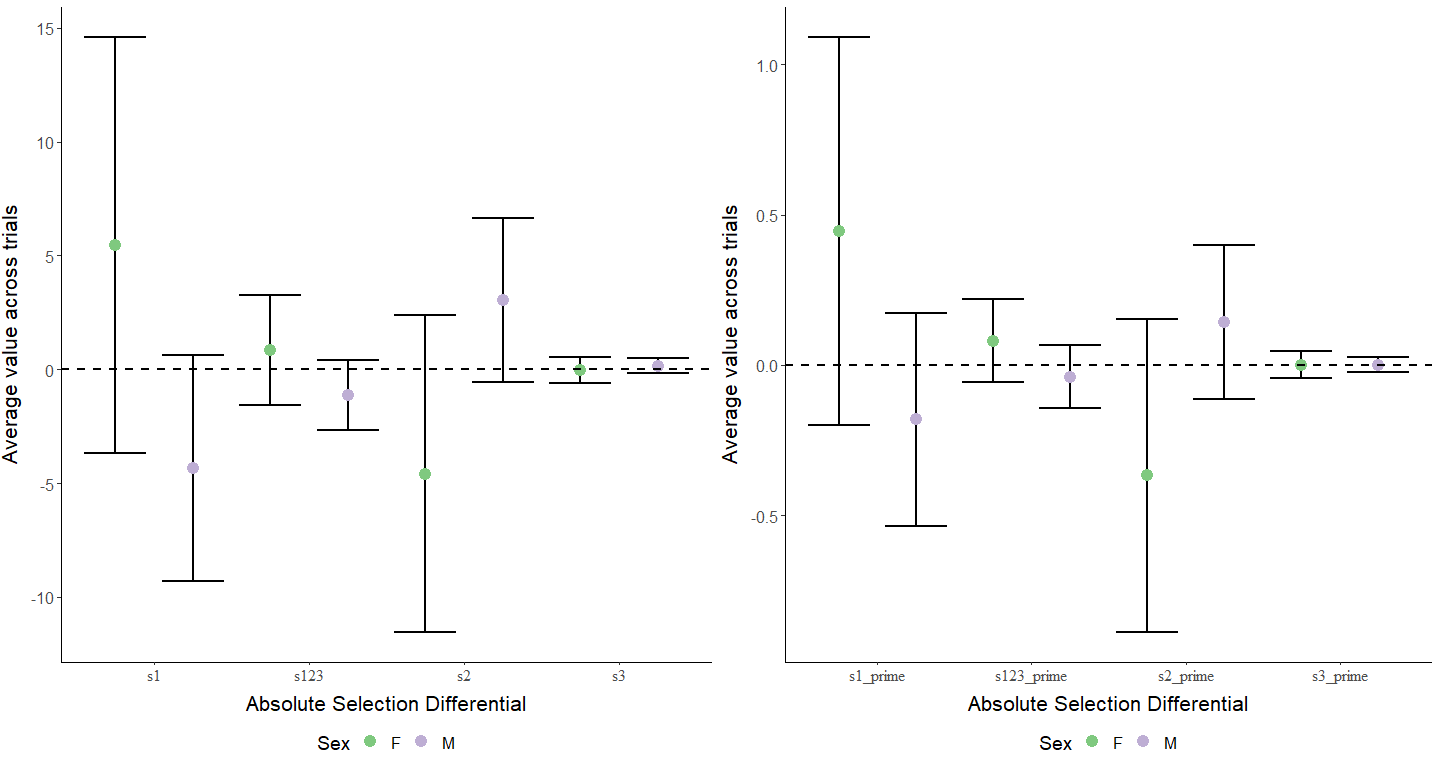
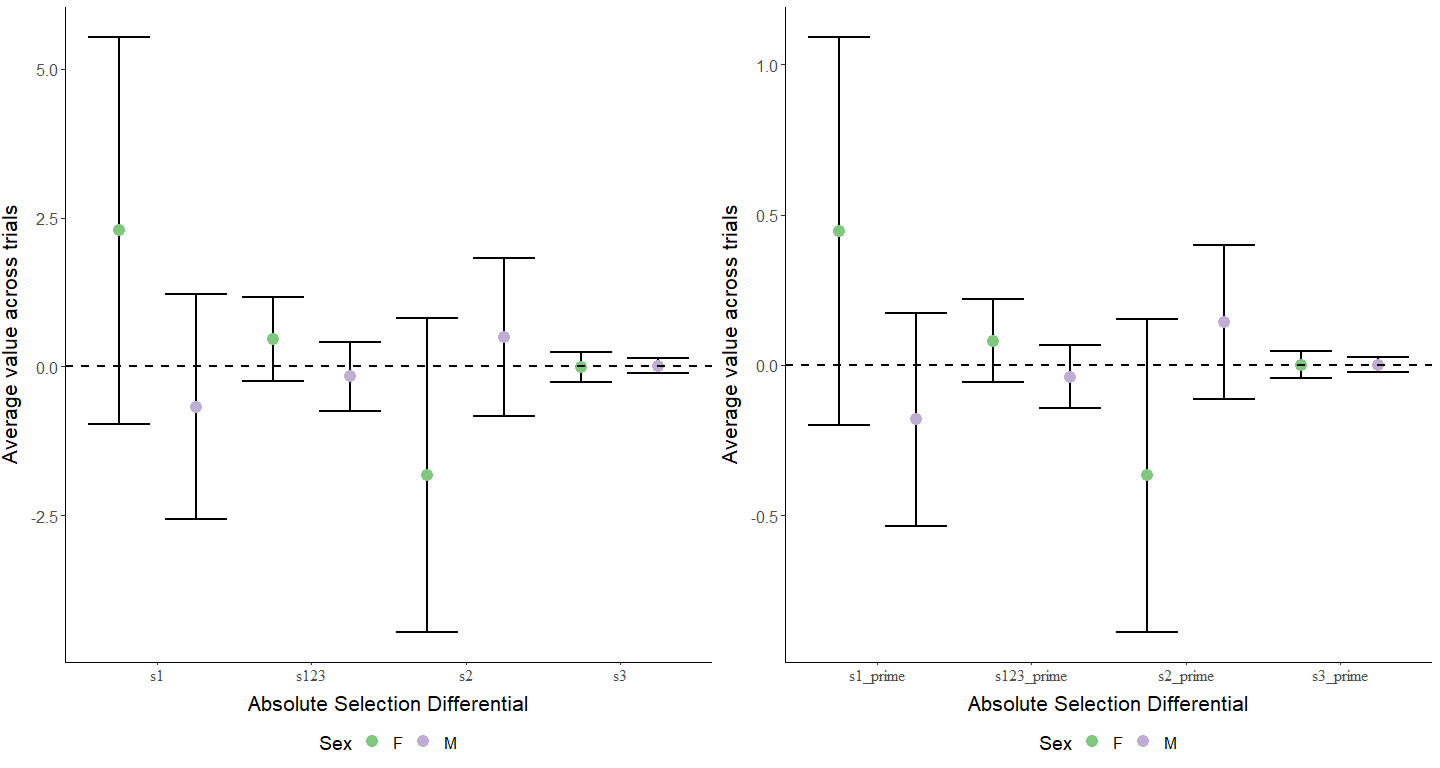
using svl instad of length for absolute selection differentials

diff --git a/docs/selection_analysis_floridae.md b/docs/selection_analysis_floridae.md
@@ -2512,9 +2512,9 @@ for (trial in unique(fem_succFL$trial_num)) {
   tmp$StdLength <- (tmp$svl - mean(tmp$svl))/sd(tmp$svl)
   
   #Calculating the absolute selection differentials (s)
-  s1 <- cov(tmp$length, tmp$fit1)
-  s12 <- cov(tmp$length, tmp$fit2)
-  s123 <- cov(tmp$length, tmp$fit3)
+  s1 <- cov(tmp$svl, tmp$fit1)
+  s12 <- cov(tmp$svl, tmp$fit2)
+  s123 <- cov(tmp$svl, tmp$fit3)
   s2 <- s12 - s1
   s3 <- s123 - s12
   
@@ -2578,9 +2578,9 @@ for (trial in unique(mal_succFL$trial_num)) {
   tmp$StdLength <- (tmp$svl - mean(tmp$svl))/sd(tmp$svl)
   
   #Calculating the absolute selection differentials (s)
-  s1 <- cov(tmp$length, tmp$fit1)
-  s12 <- cov(tmp$length, tmp$fit2)
-  s123 <- cov(tmp$length, tmp$fit3)
+  s1 <- cov(tmp$svl, tmp$fit1)
+  s12 <- cov(tmp$svl, tmp$fit2)
+  s123 <- cov(tmp$svl, tmp$fit3)
   s2 <- s12 - s1
   s3 <- s123 - s12
   
@@ -2663,16 +2663,16 @@ for (j in 1:length(columns)) {
 Now that we have the average select diff for males and females alongside
 the 95% confidence intervals we can visualize some results:
 
-| Select_diff | F                    | M                    |
-|:------------|:---------------------|:---------------------|
-| s1          | 2.36 (-10.43, 15.15) | -6.59 (-13.09, -0.1) |
-| s2          | -3.26 (-14.83, 8.32) | 4.04 (0.52, 7.55)    |
-| s3          | 1.89 (-2.44, 6.21)   | -0.72 (-1.99, 0.55)  |
-| s123        | 0.99 (-4.18, 6.17)   | -3.28 (-6.24, -0.32) |
-| s1_prime    | 0.21 (-0.32, 0.73)   | -0.43 (-0.95, 0.1)   |
-| s2_prime    | -0.23 (-0.71, 0.25)  | 0.3 (-0.04, 0.65)    |
-| s3_prime    | 0.08 (-0.11, 0.28)   | -0.07 (-0.15, 0.02)  |
-| s123_prime  | 0.06 (-0.17, 0.3)    | -0.19 (-0.38, -0.01) |
+| Select_diff | F                   | M                    |
+|:------------|:--------------------|:---------------------|
+| s1          | 2.28 (-3.76, 8.31)  | -2.83 (-6.14, 0.47)  |
+| s2          | -2.56 (-8.05, 2.94) | 1.99 (0.02, 3.95)    |
+| s3          | 0.97 (-1.34, 3.28)  | -0.52 (-1.18, 0.14)  |
+| s123        | 0.69 (-2.09, 3.48)  | -1.37 (-2.67, -0.06) |
+| s1_prime    | 0.21 (-0.32, 0.73)  | -0.43 (-0.95, 0.1)   |
+| s2_prime    | -0.23 (-0.71, 0.25) | 0.3 (-0.04, 0.65)    |
+| s3_prime    | 0.08 (-0.11, 0.28)  | -0.07 (-0.15, 0.02)  |
+| s123_prime  | 0.06 (-0.17, 0.3)   | -0.19 (-0.38, -0.01) |
 
 Average Selection Differentials (95% CI) for Males and Females
 

diff --git a/docs/selection_analysis_fuscus.md b/docs/selection_analysis_fuscus.md
@@ -2166,9 +2166,9 @@ for (trial in unique(fem_succFU$trial_num)) {
   tmp$StdLength <- (tmp$svl - mean(tmp$svl))/sd(tmp$svl)
   
   #Calculating the absolute selection differentials (s)
-  s1 <- cov(tmp$length, tmp$fit1)
-  s12 <- cov(tmp$length, tmp$fit2)
-  s123 <- cov(tmp$length, tmp$fit3)
+  s1 <- cov(tmp$svl, tmp$fit1)
+  s12 <- cov(tmp$svl, tmp$fit2)
+  s123 <- cov(tmp$svl, tmp$fit3)
   s2 <- s12 - s1
   s3 <- s123 - s12
   
@@ -2232,9 +2232,9 @@ for (trial in unique(mal_succFU$trial_num)) {
   tmp$StdLength <- (tmp$svl - mean(tmp$svl))/sd(tmp$svl)
   
   #Calculating the absolute selection differentials (s)
-  s1 <- cov(tmp$length, tmp$fit1)
-  s12 <- cov(tmp$length, tmp$fit2)
-  s123 <- cov(tmp$length, tmp$fit3)
+  s1 <- cov(tmp$svl, tmp$fit1)
+  s12 <- cov(tmp$svl, tmp$fit2)
+  s123 <- cov(tmp$svl, tmp$fit3)
   s2 <- s12 - s1
   s3 <- s123 - s12
   
@@ -2317,16 +2317,16 @@ for (j in 1:length(columns)) {
 Now that we have the average select diff for males and females alongside
 the 95% confidence intervals we can visualize some results:
 
-| Select_diff | F                    | M                   |
-|:------------|:---------------------|:--------------------|
-| s1          | 5.47 (-3.68, 14.62)  | -4.35 (-9.32, 0.62) |
-| s2          | -4.58 (-11.53, 2.37) | 3.05 (-0.54, 6.64)  |
-| s3          | -0.02 (-0.6, 0.56)   | 0.15 (-0.18, 0.49)  |
-| s123        | 0.86 (-1.55, 3.28)   | -1.14 (-2.68, 0.4)  |
-| s1_prime    | 0.45 (-0.2, 1.09)    | -0.18 (-0.54, 0.17) |
-| s2_prime    | -0.37 (-0.89, 0.15)  | 0.14 (-0.11, 0.4)   |
-| s3_prime    | 0 (-0.04, 0.05)      | 0 (-0.03, 0.03)     |
-| s123_prime  | 0.08 (-0.06, 0.22)   | -0.04 (-0.14, 0.07) |
+| Select_diff | F                   | M                   |
+|:------------|:--------------------|:--------------------|
+| s1          | 2.29 (-0.96, 5.54)  | -0.67 (-2.57, 1.22) |
+| s2          | -1.82 (-4.46, 0.81) | 0.5 (-0.83, 1.83)   |
+| s3          | -0.01 (-0.27, 0.24) | 0.01 (-0.12, 0.14)  |
+| s123        | 0.45 (-0.25, 1.16)  | -0.16 (-0.75, 0.42) |
+| s1_prime    | 0.45 (-0.2, 1.09)   | -0.18 (-0.54, 0.17) |
+| s2_prime    | -0.37 (-0.89, 0.15) | 0.14 (-0.11, 0.4)   |
+| s3_prime    | 0 (-0.04, 0.05)     | 0 (-0.03, 0.03)     |
+| s123_prime  | 0.08 (-0.06, 0.22)  | -0.04 (-0.14, 0.07) |
 
 Average Selection Differentials (95% CI) for Males and Females
 

diff --git a/docs/selection_analysis_scovelli.md b/docs/selection_analysis_scovelli.md
@@ -1875,9 +1875,9 @@ for (trial in unique(fem_succSS$trial_num)) {
   tmp$StdLength <- (tmp$svl - mean(tmp$svl))/sd(tmp$svl)
   
   #Calculating the absolute selection differentials (s)
-  s1 <- cov(tmp$length, tmp$fit1)
-  s12 <- cov(tmp$length, tmp$fit2)
-  s123 <- cov(tmp$length, tmp$fit3)
+  s1 <- cov(tmp$svl, tmp$fit1)
+  s12 <- cov(tmp$svl, tmp$fit2)
+  s123 <- cov(tmp$svl, tmp$fit3)
   s2 <- s12 - s1
   s3 <- s123 - s12
   
@@ -1943,9 +1943,9 @@ for (trial in unique(mal_succSS$trial_num)) {
   tmp$StdLength <- (tmp$svl - mean(tmp$svl))/sd(tmp$svl)
   
   #Calculating the absolute selection differentials (s)
-  s1 <- cov(tmp$length, tmp$fit1)
-  s12 <- cov(tmp$length, tmp$fit2)
-  s123 <- cov(tmp$length, tmp$fit3)
+  s1 <- cov(tmp$svl, tmp$fit1)
+  s12 <- cov(tmp$svl, tmp$fit2)
+  s123 <- cov(tmp$svl, tmp$fit3)
   s2 <- s12 - s1
   s3 <- s123 - s12
   
@@ -2032,10 +2032,10 @@ the 95% confidence intervals we can visualize some results:
 
 | Select_diff | F                   | M                  |
 |:------------|:--------------------|:-------------------|
-| s1          | 1.6 (-0.62, 3.81)   | 0.39 (-0.49, 1.27) |
-| s2          | -1.07 (-3.04, 0.9)  | 0.32 (-0.25, 0.9)  |
-| s3          | 0 (-0.48, 0.48)     | -0.14 (-0.88, 0.6) |
-| s123        | 0.53 (-0.38, 1.44)  | 0.57 (-0.39, 1.54) |
+| s1          | 1.02 (0, 2.05)      | 0.01 (-0.44, 0.46) |
+| s2          | -0.76 (-1.62, 0.11) | 0.14 (-0.11, 0.39) |
+| s3          | 0.02 (-0.15, 0.18)  | 0.04 (-0.28, 0.36) |
+| s123        | 0.28 (-0.06, 0.62)  | 0.19 (-0.26, 0.63) |
 | s1_prime    | 0.34 (0.01, 0.68)   | 0.05 (-0.11, 0.21) |
 | s2_prime    | -0.24 (-0.53, 0.04) | 0.03 (-0.07, 0.13) |
 | s3_prime    | 0 (-0.07, 0.07)     | 0.03 (-0.08, 0.14) |
